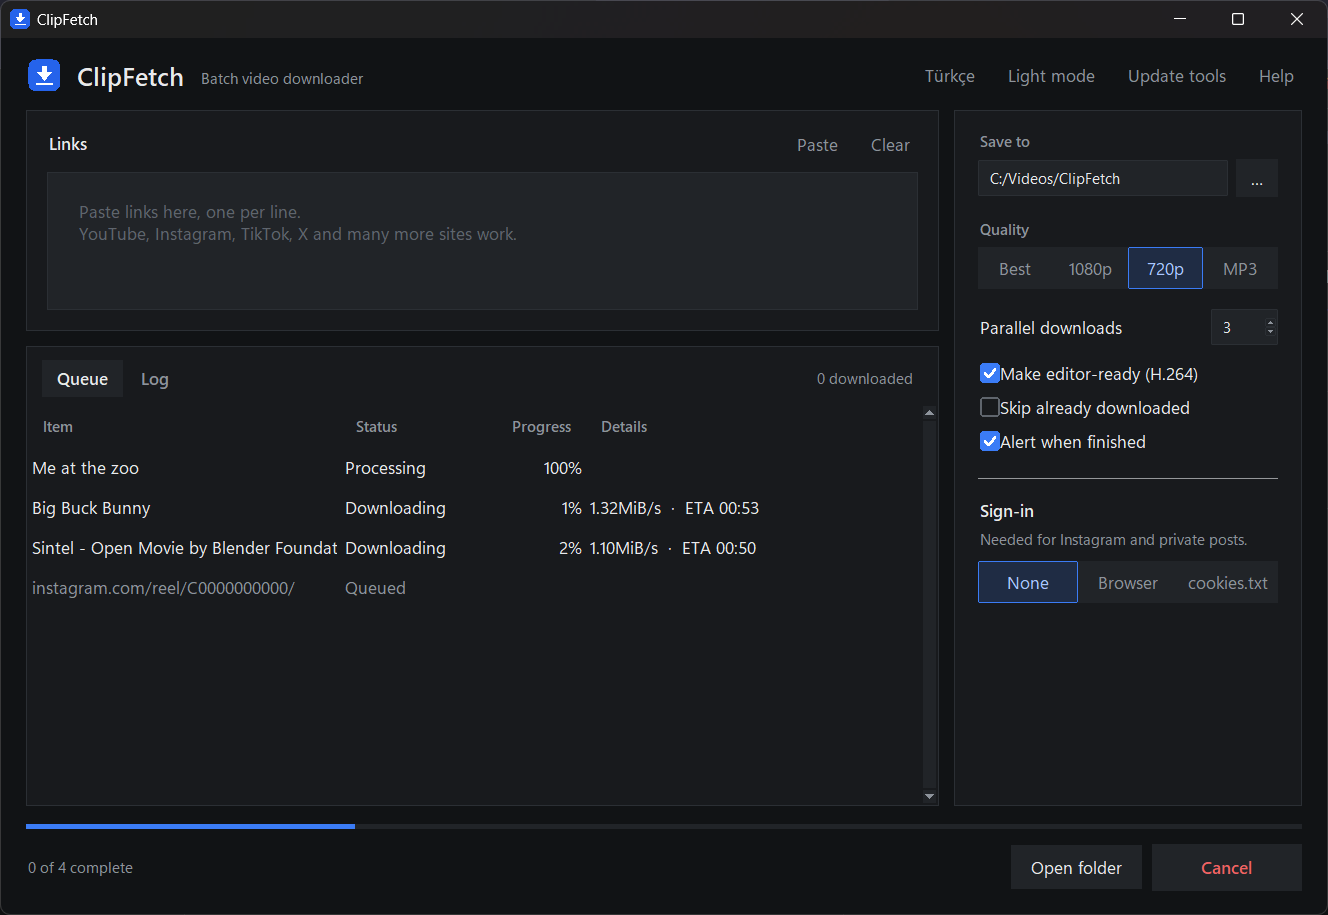
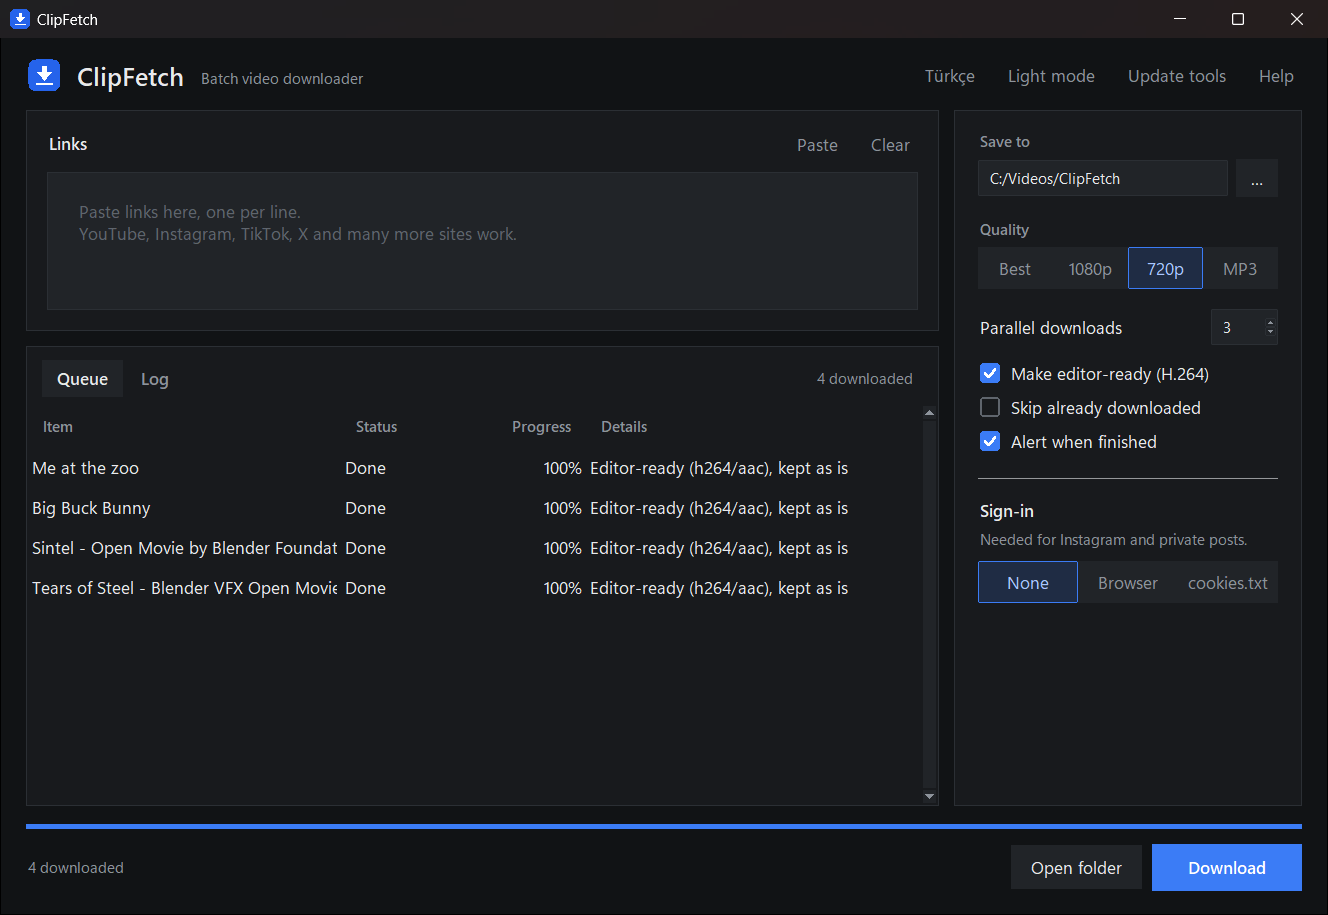
Show video titles for every queue row
Titles were only picked up from download progress events, which some
formats never send with metadata. They now come from the item info before
the download starts and again after the file is moved into place.

diff --git a/clipfetch.py b/clipfetch.py
@@ -696,14 +696,14 @@ class _ErrorLogger:
         self._sink(msg)
 
 
-class _PathPP(PostProcessor):
-    """Reports the final file path of every finished item."""
+class _InfoPP(PostProcessor):
+    """Hands the info dict of each item to a callback (title, final path)."""
     def __init__(self, cb):
         super().__init__()
         self._cb = cb
 
     def run(self, info):
-        self._cb(info.get("filepath") or info.get("_filename") or "")
+        self._cb(info)
         return [], info
 
 
@@ -1733,6 +1733,13 @@ class App(tk.Tk):
             got_path = []
             row(status="downloading", progress="0%")
 
+            def on_start(info):
+                row(title=info.get("title"))
+
+            def on_done(info):
+                got_path.append(info.get("filepath") or info.get("_filename") or "")
+                row(title=info.get("title"))
+
             def hook(d):
                 if self.cancel_ev.is_set():
                     raise yt_dlp.utils.DownloadCancelled()
@@ -1767,7 +1774,8 @@ class App(tk.Tk):
                 with yt_dlp.YoutubeDL(opts) as ydl:
                     if fmt != "mp3" and fix:
                         ydl.add_post_processor(PremierePP(report), when="after_move")
-                    ydl.add_post_processor(_PathPP(lambda p: got_path.append(p)), when="after_move")
+                    ydl.add_post_processor(_InfoPP(on_start), when="before_dl")
+                    ydl.add_post_processor(_InfoPP(on_done), when="after_move")
                     code = ydl.download([url])
                 if self.cancel_ev.is_set() and code != 0:
                     row(status="cancelled", progress="")
